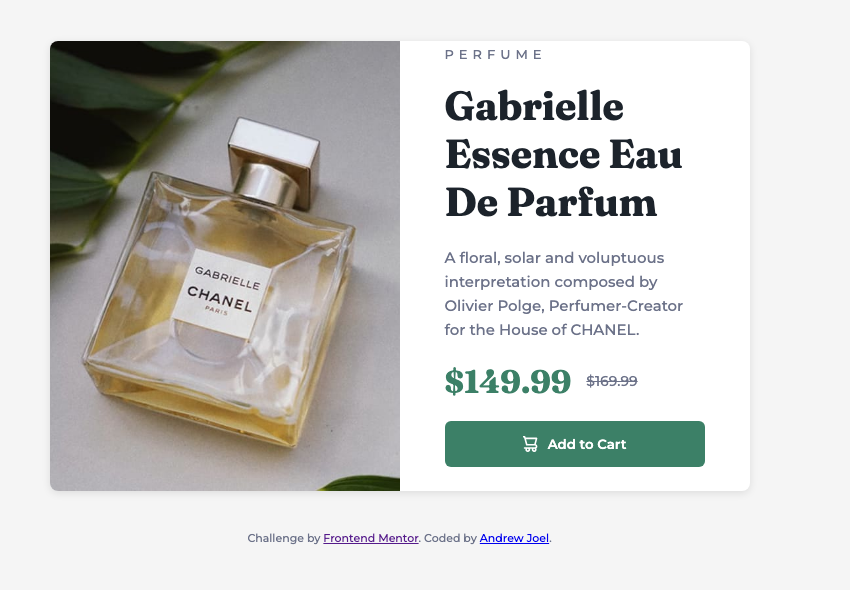
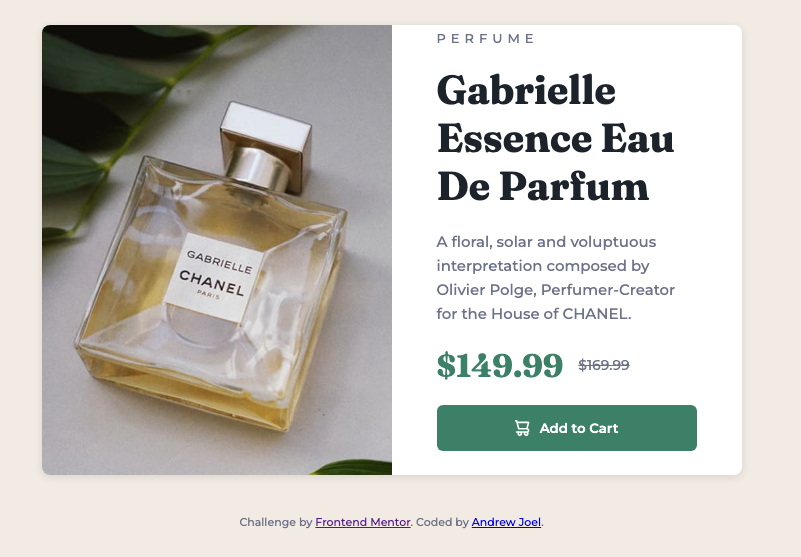
changes made

Changed region(s): [[0.0312, 0.0305, 0.9363, 0.9461], [0.5306, 0.4273, 0.8427, 0.5799]]

diff --git a/css/styleSheet.css b/css/styleSheet.css
@@ -14,7 +14,7 @@ body {
     font-optical-sizing: auto;
     font-weight: 500;
     font-style: normal;
-    background-color: #f5f5f5;
+    background-color: hsl(30, 38%, 92%);
     padding: 20px;
     min-height: 100vh;
     display: flex;

diff --git a/README.md b/README.md
@@ -33,6 +33,11 @@
 
 ### What I learned
 
+I discovered how easily a syntax error can lead to broken code. 
+I had missed a closing tag in my index.html file, which caused any 
+CSS changes to have no effect on the layout. Once I identified the error, 
+I realized its impact. The lesson is: always ensure your foundation is solid before continuing.
+
 
 ![What I Learned](./assets/images/WhatILearned.png)
 
